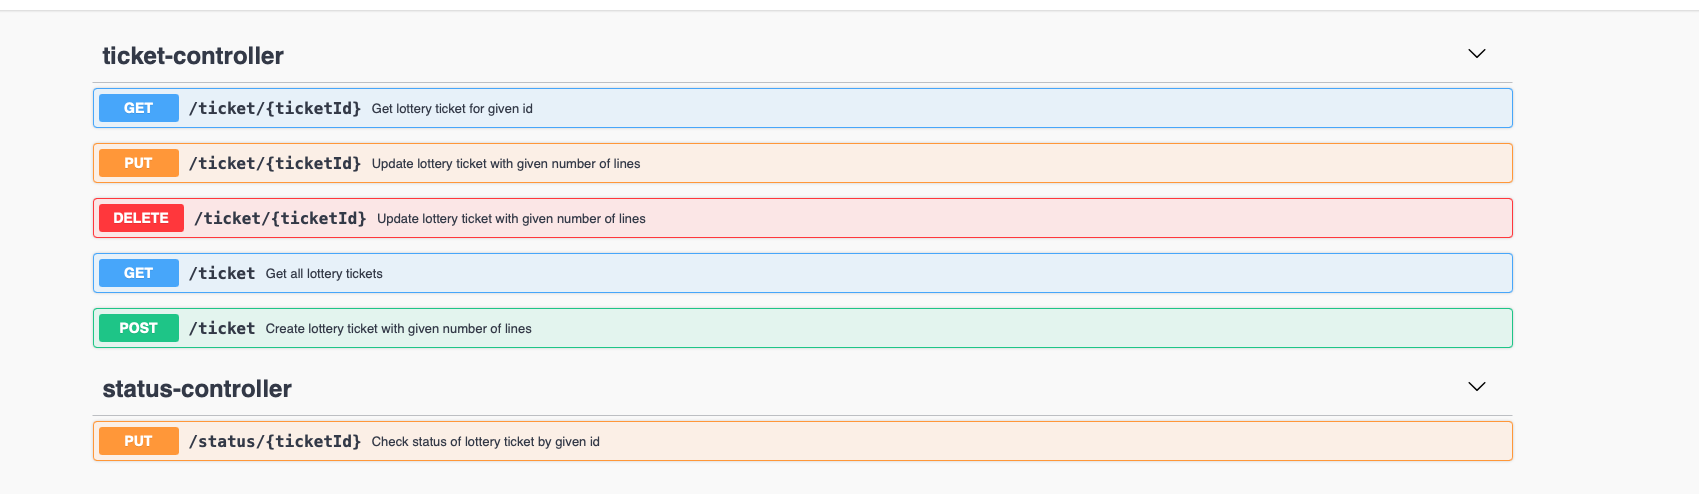
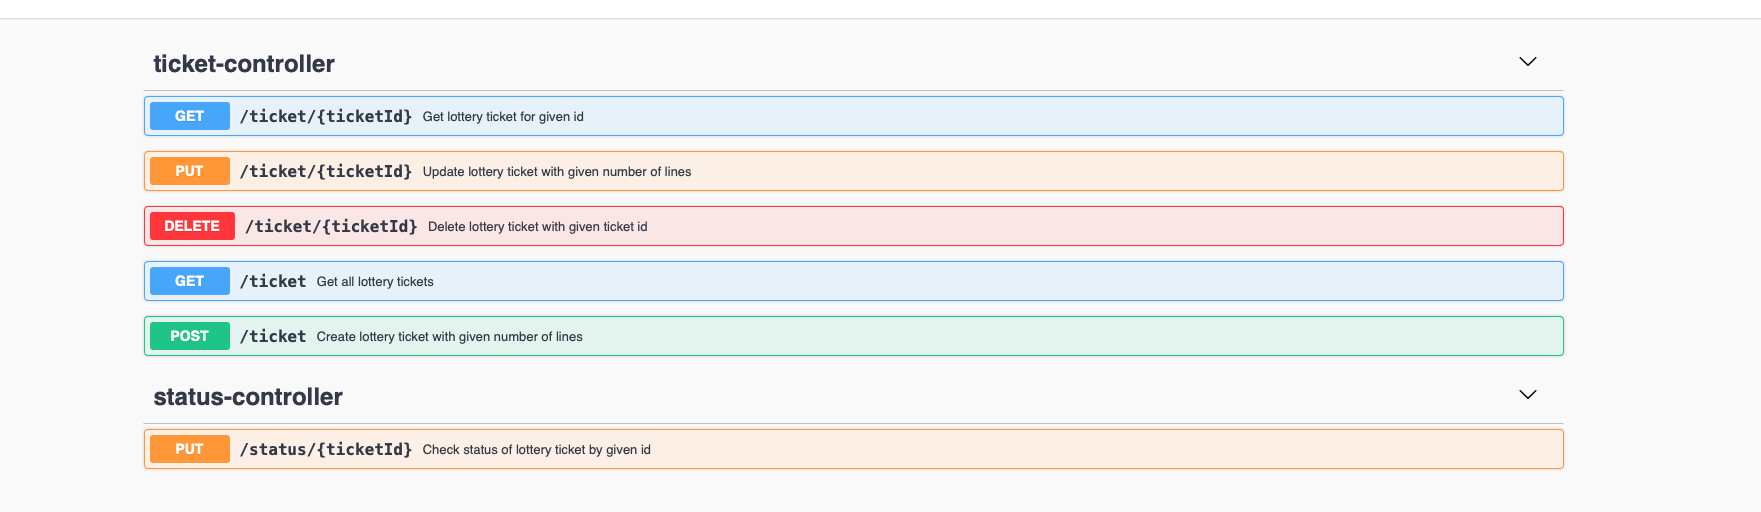
updated delete endpoint swagger definition

diff --git a/src/main/java/com/mercan/lottery/controller/TicketController.java b/src/main/java/com/mercan/lottery/controller/TicketController.java
@@ -95,7 +95,7 @@ public class TicketController {
 
 
     @DeleteMapping("/{ticketId}")
-    @Operation(summary = "Update lottery ticket with given number of lines")
+    @Operation(summary = "Delete lottery ticket with given ticket id")
     @ApiResponses(value = {
             @ApiResponse(responseCode = "204", description = "Ticket is deleted", content = {@Content(mediaType = MediaType.APPLICATION_JSON_VALUE)}),
             @ApiResponse(responseCode = "404", description = "Ticket is not found", content = {@Content(mediaType = MediaType.APPLICATION_JSON_VALUE, schema = @Schema(implementation = ApiError.class))}),
